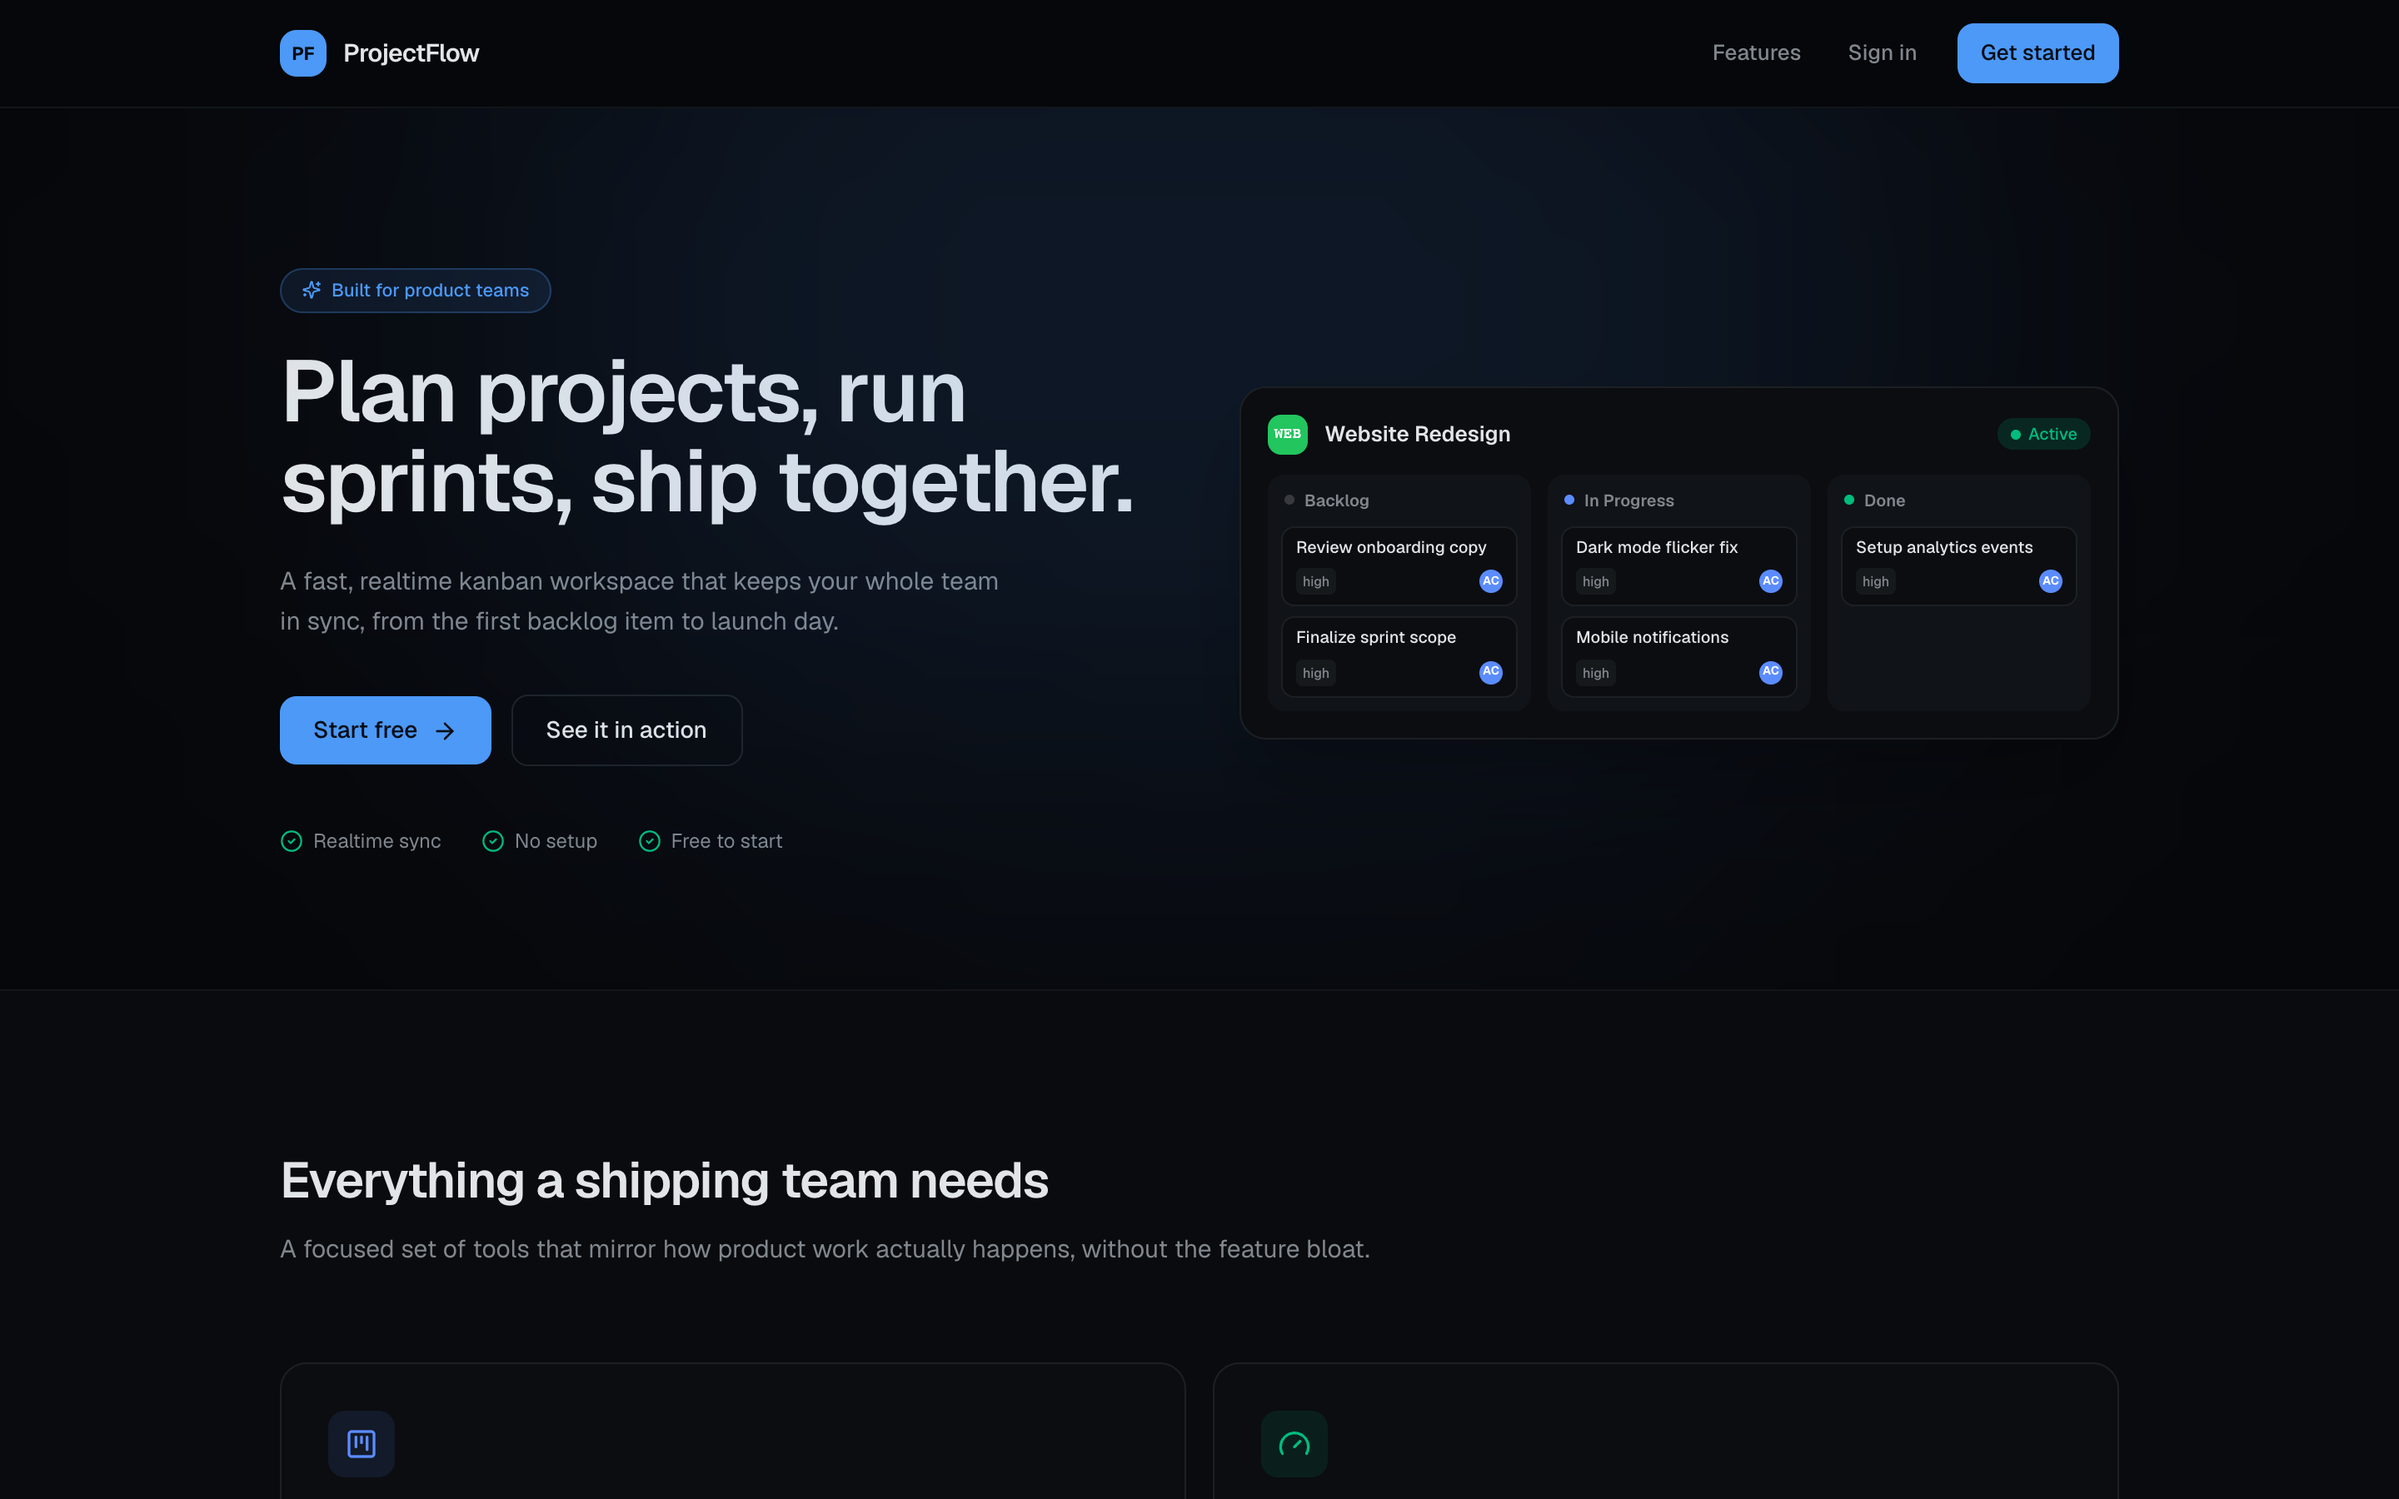
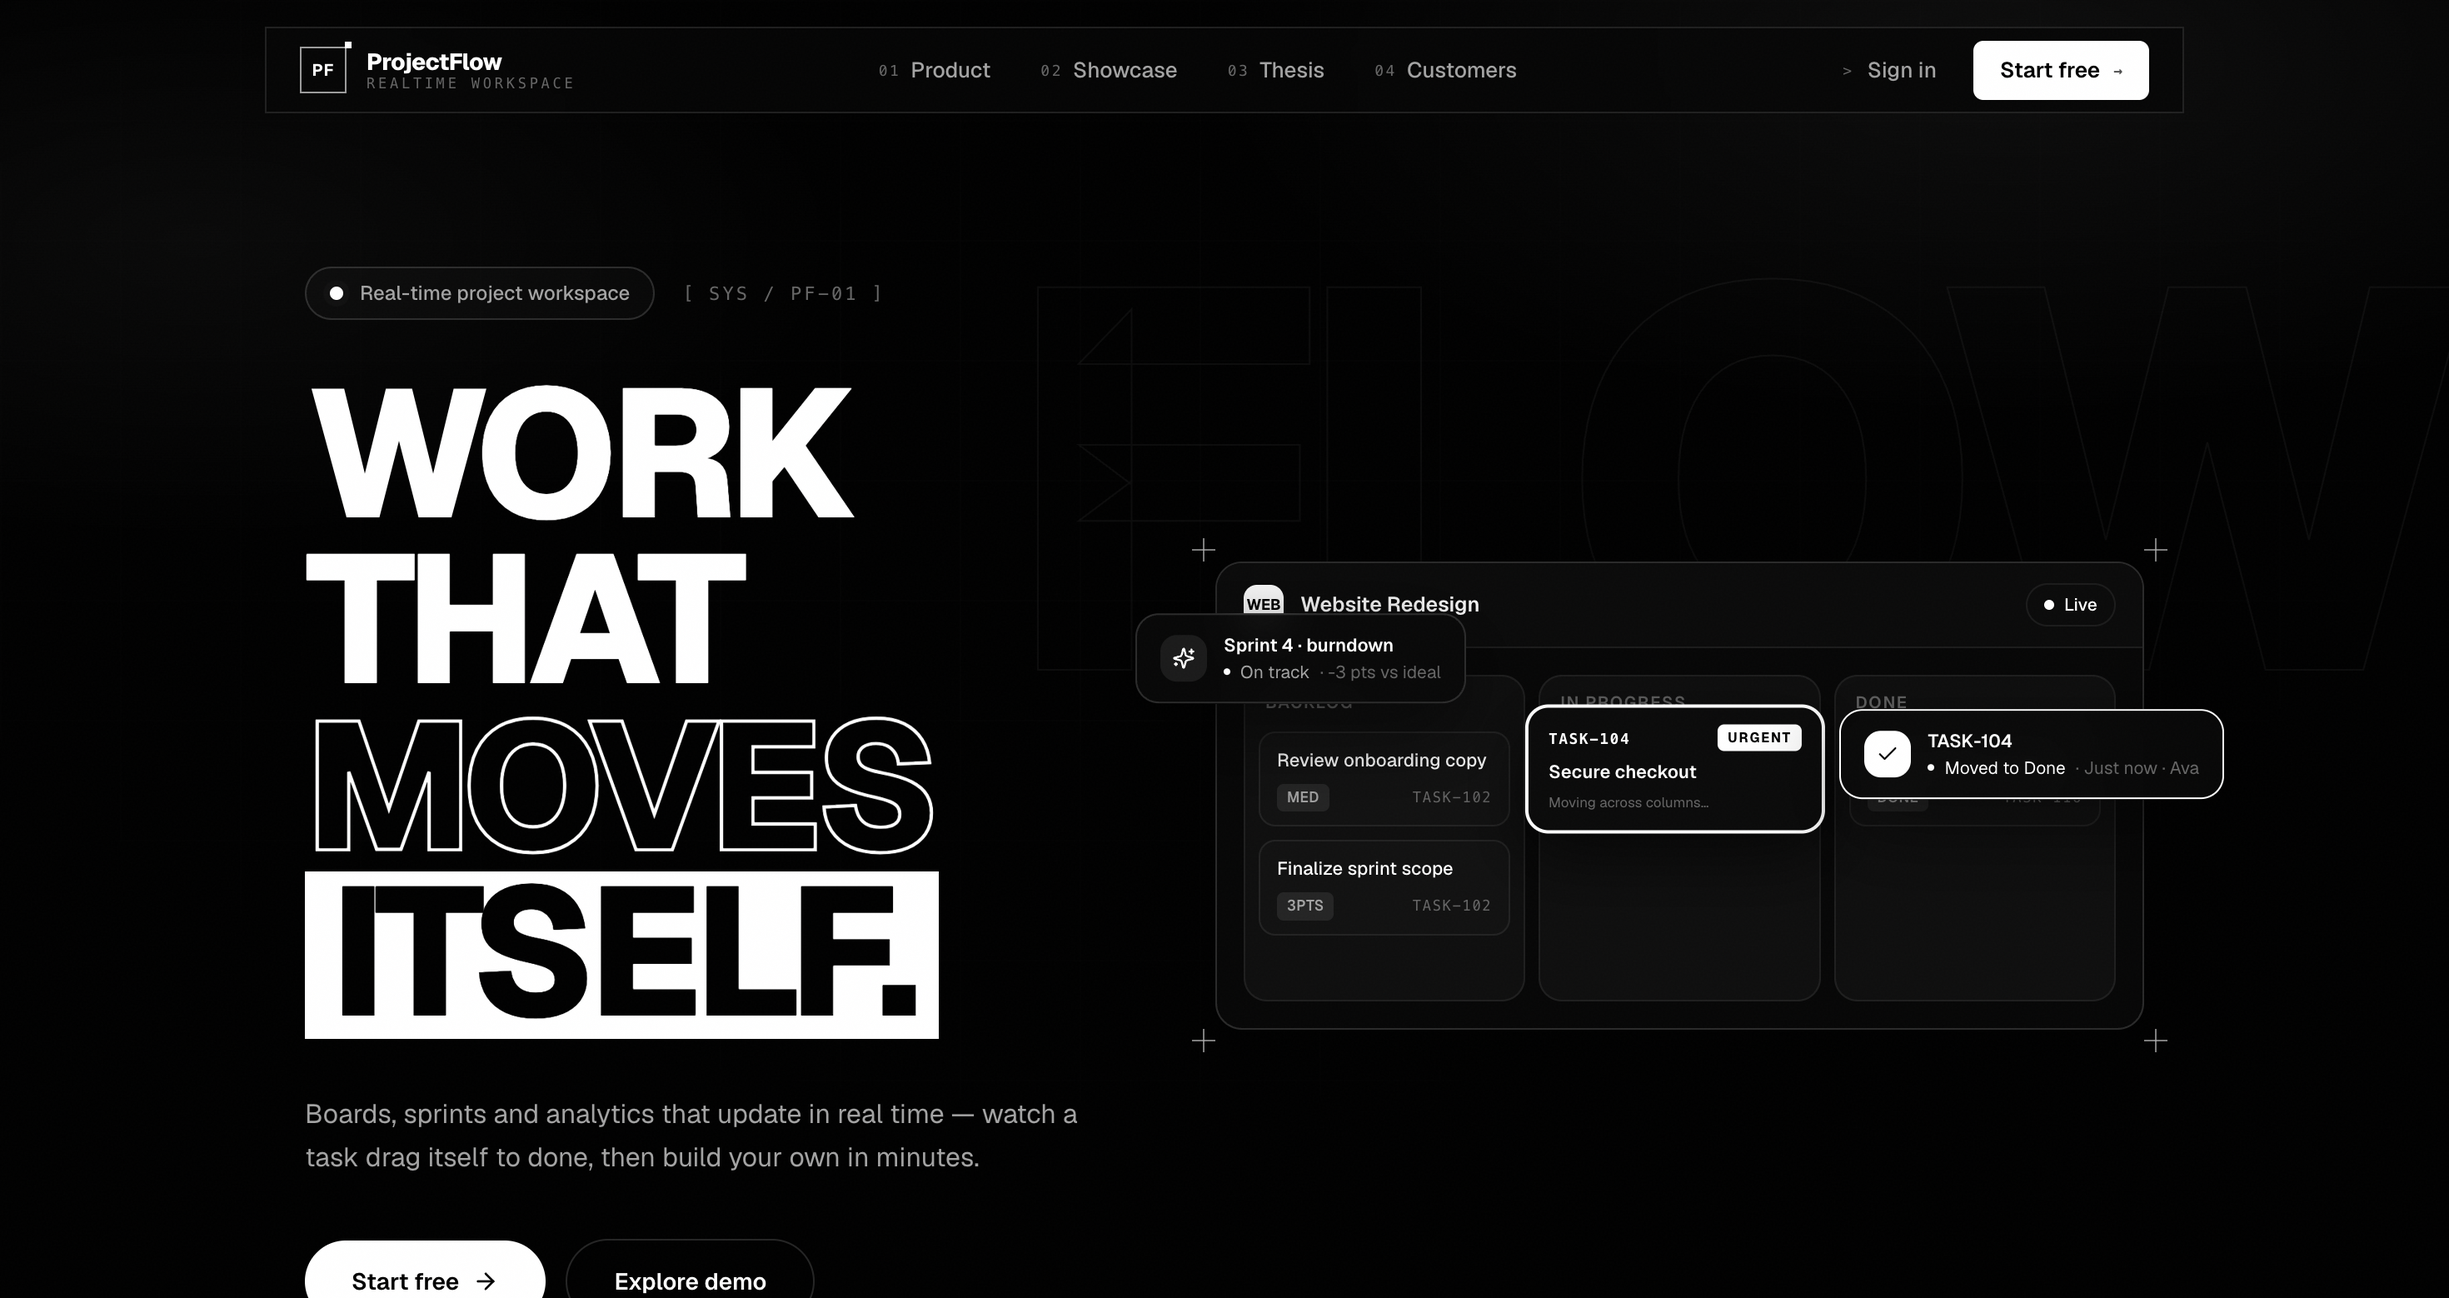
feat: update README with new landing hero image and add sign up screenshot

diff --git a/README.md b/README.md
@@ -37,7 +37,7 @@ Bringing Trello's visual simplicity, Jira's sprint planning, and Linear's modern
 
 ### Marketing & auth
 
-<a href="docs/screenshots/01-landing.png"><img src="docs/screenshots/01-landing.png" alt="Landing page" width="430"/></a> &nbsp; &nbsp; <a href="docs/screenshots/02-login.png"><img src="docs/screenshots/02-login.png" alt="Login" width="430"/></a>
+<a href="docs/screenshots/01-landing.png"><img src="docs/screenshots/landing_hero.png" alt="Landing page" width="430"/></a> &nbsp; &nbsp; <a href="docs/screenshots/02-login.png"><img src="docs/screenshots/02-login.png" alt="Login" width="430"/></a> &nbsp; &nbsp; <a href="docs/screenshots/02-register.png"><img src="docs/screenshots/02-register.png" alt="Sign up" width="430"/></a>
 
 🧑💻 **Tip:** the login page shows the demo credentials (`demo@projectflow.dev` / `demo1234`) right on it.
 
